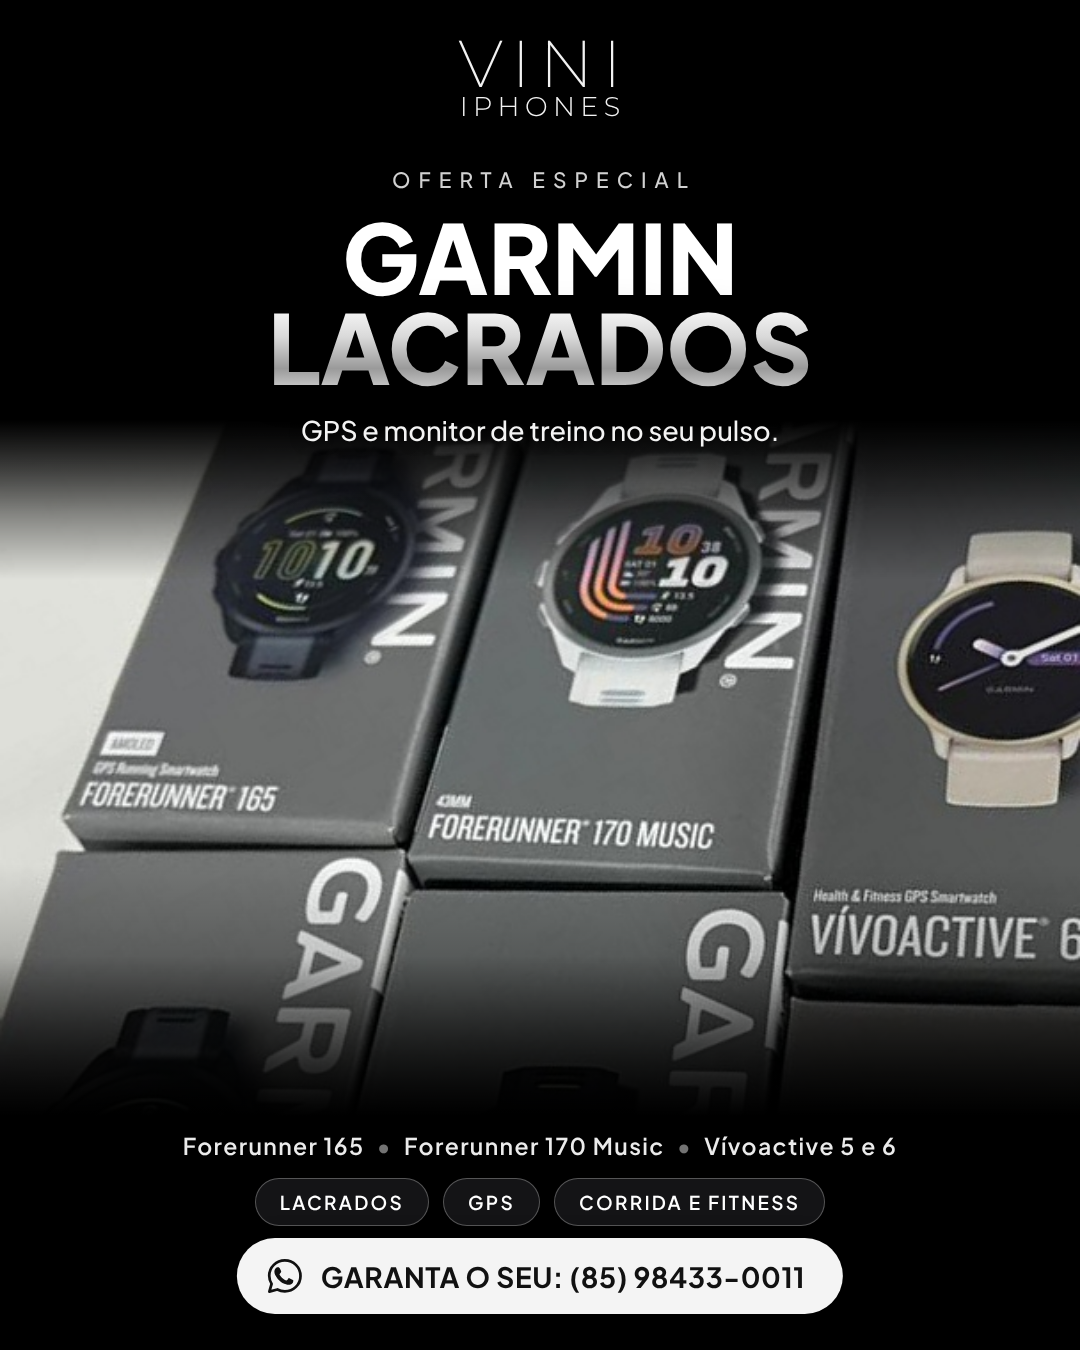
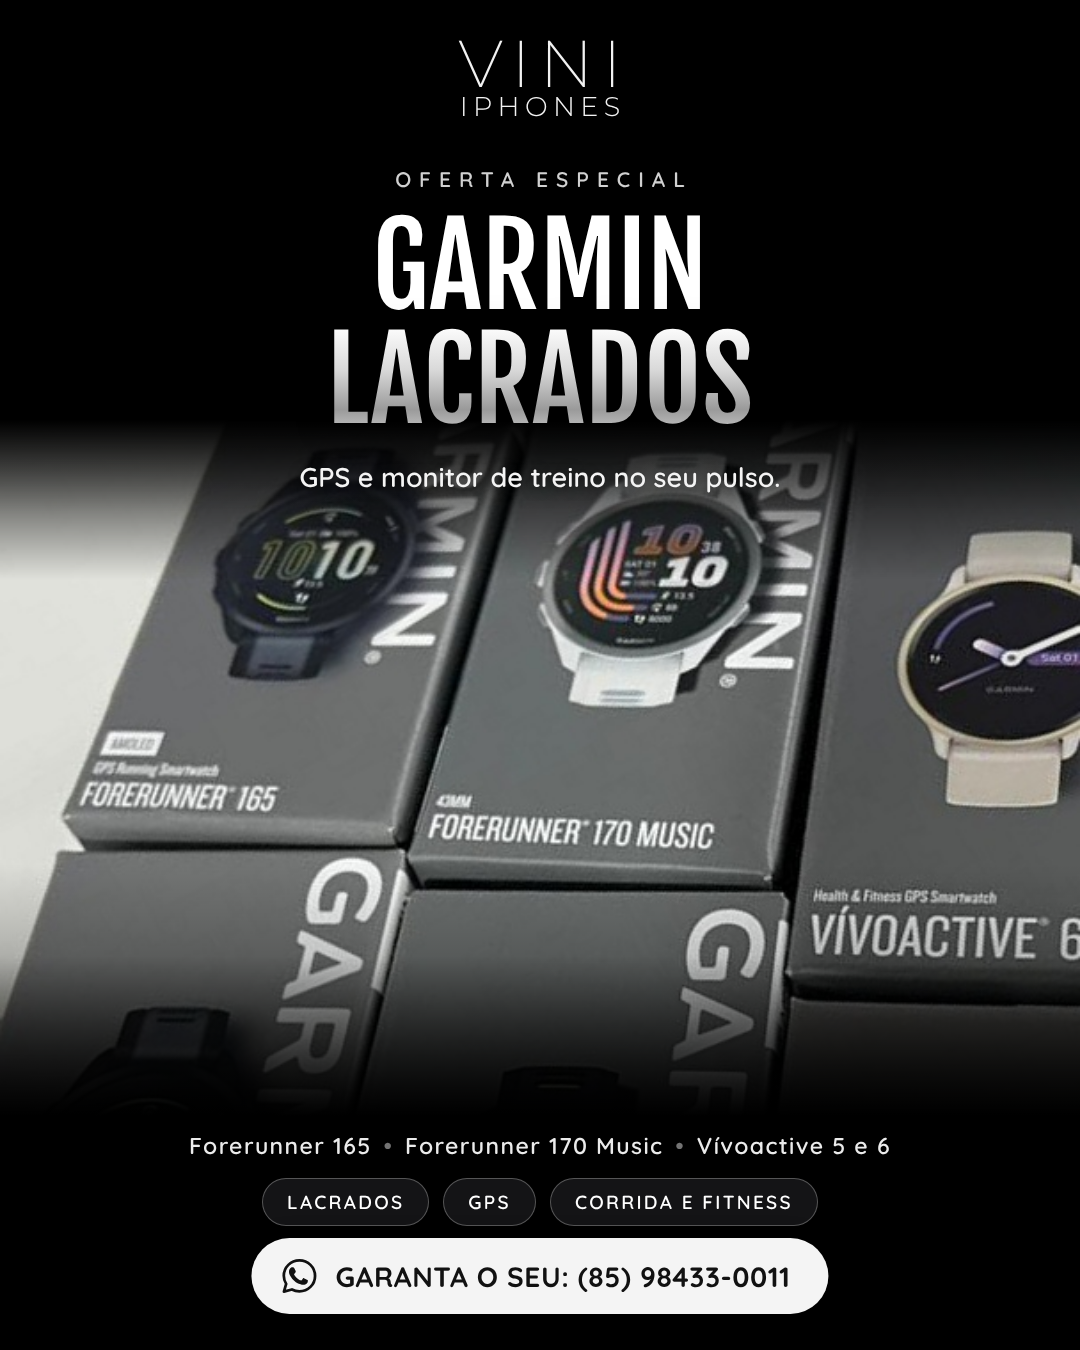
Fontes: Fjalla One no título (Squeeze) e Quicksand nos demais textos (Deco)
Claude-Session: https://claude.ai/code/session_01PhDRCUWGXWPHs6d3AsBF7P

Changed region(s): [[0.2444, 0.1244, 0.7639, 0.3733], [0.1528, 0.84, 0.825, 0.9956]]

diff --git a/marketing/posts/template.html b/marketing/posts/template.html
@@ -4,7 +4,7 @@
 <meta charset="utf-8">
 <title>Post Vini iPhones</title>
 <link rel="preconnect" href="https://fonts.googleapis.com">
-<link href="https://fonts.googleapis.com/css2?family=Montserrat:wght@200;300;400&family=Plus+Jakarta+Sans:wght@400;500;600;700;800&display=swap" rel="stylesheet">
+<link href="https://fonts.googleapis.com/css2?family=Montserrat:wght@200;300;400&family=Fjalla+One&family=Quicksand:wght@500;600;700&display=swap" rel="stylesheet">
 <style>
   :root {
     --w: 1080px;
@@ -18,7 +18,7 @@
   }
   * { margin: 0; padding: 0; box-sizing: border-box; }
   html, body { width: var(--w); height: var(--h); background: #111; overflow: hidden; }
-  body { font-family: "Plus Jakarta Sans", sans-serif; color: var(--texto); }
+  body { font-family: "Quicksand", sans-serif; color: var(--texto); }
 
   .post { position: relative; width: var(--w); height: var(--h); overflow: hidden; }
 
@@ -38,10 +38,10 @@
   .logo .l1 { font-size: 66px; letter-spacing: .14em; padding-left: .14em; }
   .logo .l2 { font-size: 27px; letter-spacing: .2em; padding-left: .2em; font-weight: 300; margin-top: 2px; }
 
-  .kicker { margin-top: 46px; font-size: 21px; font-weight: 500; letter-spacing: .38em; padding-left: .38em; color: var(--texto-suave); }
-  .titulo { margin-top: 18px; font-weight: 800; line-height: .94; letter-spacing: -.01em; text-transform: uppercase; }
-  .titulo .t1 { display: block; font-size: var(--t1, 96px); color: #fff; text-shadow: 0 4px 24px rgba(0,0,0,.35); }
-  .titulo .t2 { display: block; font-size: var(--t2, 96px);
+  .kicker { margin-top: 46px; font-size: 21px; font-weight: 600; letter-spacing: .38em; padding-left: .38em; color: var(--texto-suave); }
+  .titulo { margin-top: 18px; font-family: "Fjalla One", sans-serif; font-weight: 400; line-height: 1.02; letter-spacing: .01em; text-transform: uppercase; }
+  .titulo .t1 { display: block; font-size: var(--t1, 112px); color: #fff; text-shadow: 0 4px 24px rgba(0,0,0,.35); }
+  .titulo .t2 { display: block; font-size: var(--t2, 112px);
     background: linear-gradient(180deg, #ffffff 0%, #d9d9d9 40%, #9a9a9a 75%, #cfcfcf 100%);
     -webkit-background-clip: text; background-clip: text; color: transparent;
     filter: drop-shadow(0 4px 18px rgba(0,0,0,.35)); }
@@ -51,7 +51,7 @@
     justify-content: center; white-space: nowrap; }
   .titulo.linha .t2 { margin-left: .25em; }
   .titulo.linha .t2 { background: none; color: #fff; filter: none; text-shadow: 0 4px 24px rgba(0,0,0,.35); }
-  .sub { margin-top: 22px; font-size: 27px; font-weight: 500; color: #f4f4f4; text-shadow: 0 2px 12px rgba(0,0,0,.5); }
+  .sub { margin-top: 22px; font-size: 27px; font-weight: 600; color: #f4f4f4; text-shadow: 0 2px 12px rgba(0,0,0,.5); }
 
   .pills { margin-top: 26px; display: flex; justify-content: center; gap: 14px; flex-wrap: wrap; padding: 0 60px; }
   .pill { background: var(--pill-bg); border: 1.5px solid var(--pill-borda); border-radius: 999px;

diff --git a/CLAUDE.md b/CLAUDE.md
@@ -7,6 +7,12 @@ WhatsApp de vendas: (85) 98433-0011 (DDD 85, Fortaleza/CE). Idioma: português d
 
 Logo oficial e arte de parcelamento aprovada: `marketing/posts/referencia-parcelamento-18x.png`.
 
+## Fontes
+
+- Título: **Fjalla One** (Google Fonts) — equivalente da fonte "Squeeze" do Instagram.
+- Demais textos (chamada, frase, selos, botão, lista): **Quicksand** 600/700 — equivalente da "Deco" do Instagram.
+- Logo VINI IPHONES: Montserrat fina (não muda).
+
 ## Padrão de post do Instagram (feed 1080x1350)
 
 Referência aprovada: `marketing/posts/referencia-perfumes.png`. Todo post novo segue esta estrutura,
@@ -14,7 +20,7 @@ de cima para baixo, centralizada sobre a foto real do produto:
 
 1. Logo "VINI / IPHONES" em fonte fina (Montserrat 200/300), letras espaçadas.
 2. Chamada pequena espaçada: `OFERTA ESPECIAL` (ou outra curta, sempre em caixa alta).
-3. Título em UMA linha, sem quebra, TODO EM BRANCO, Plus Jakarta Sans 800, caixa alta: modelo +
+3. Título em UMA linha, sem quebra, TODO EM BRANCO, Fjalla One (equivalente da fonte Squeeze do Instagram), caixa alta: modelo +
    capacidade ao lado (ex.: IPHONE 17 256GB, IPAD 11 128GB & 256GB). Chamada e frase coladas ao título.
 4. Subtítulo curto em uma linha (ex.: "Lacrado e com 1 ano de garantia Apple.").
 5. Até 3 selos em pílulas escuras translúcidas com borda clara (ex.: LACRADO, GARANTIA APPLE, BRINDES).
